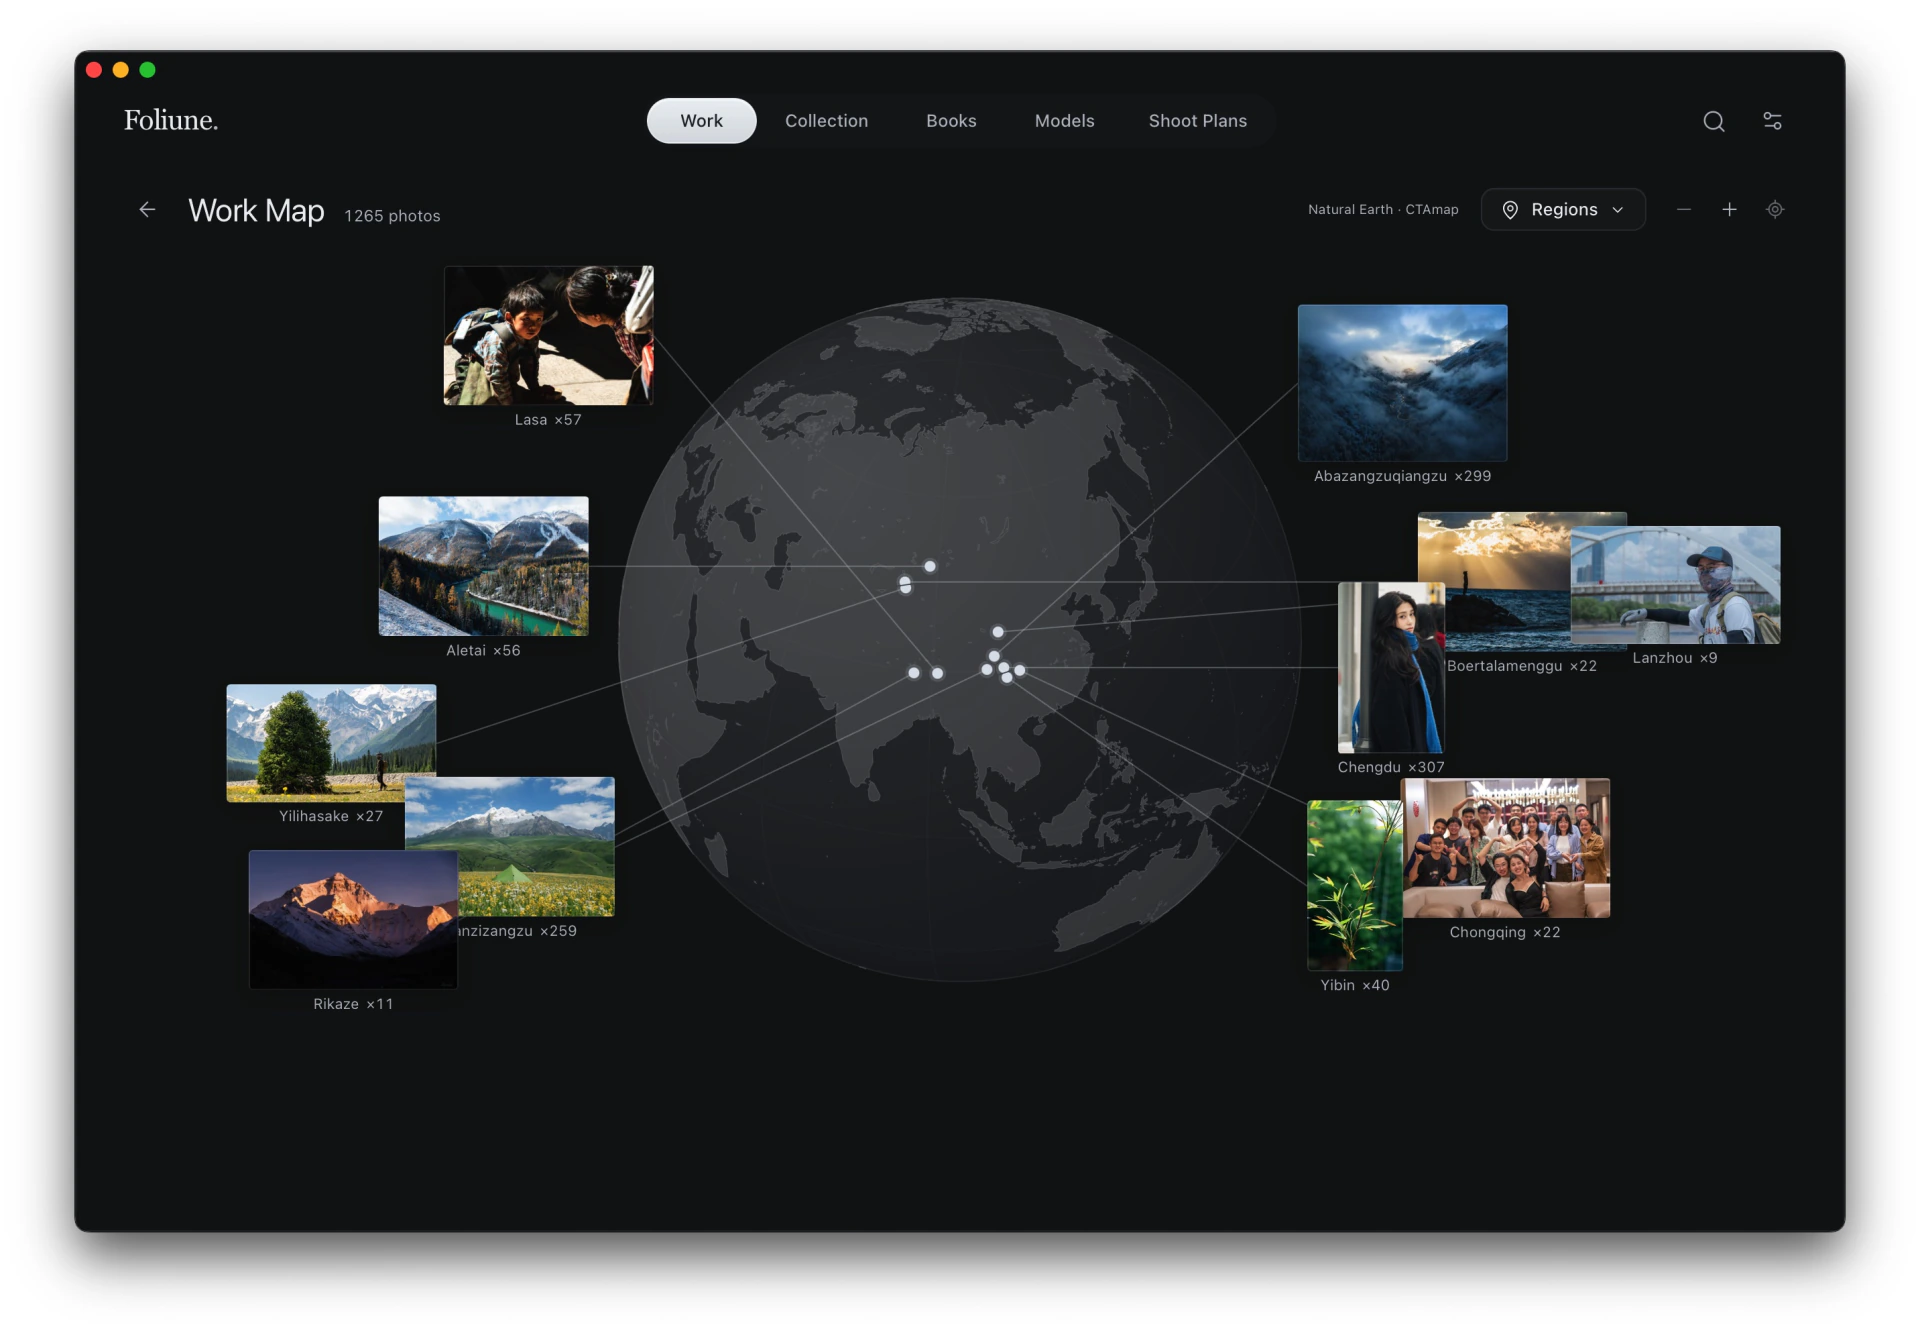
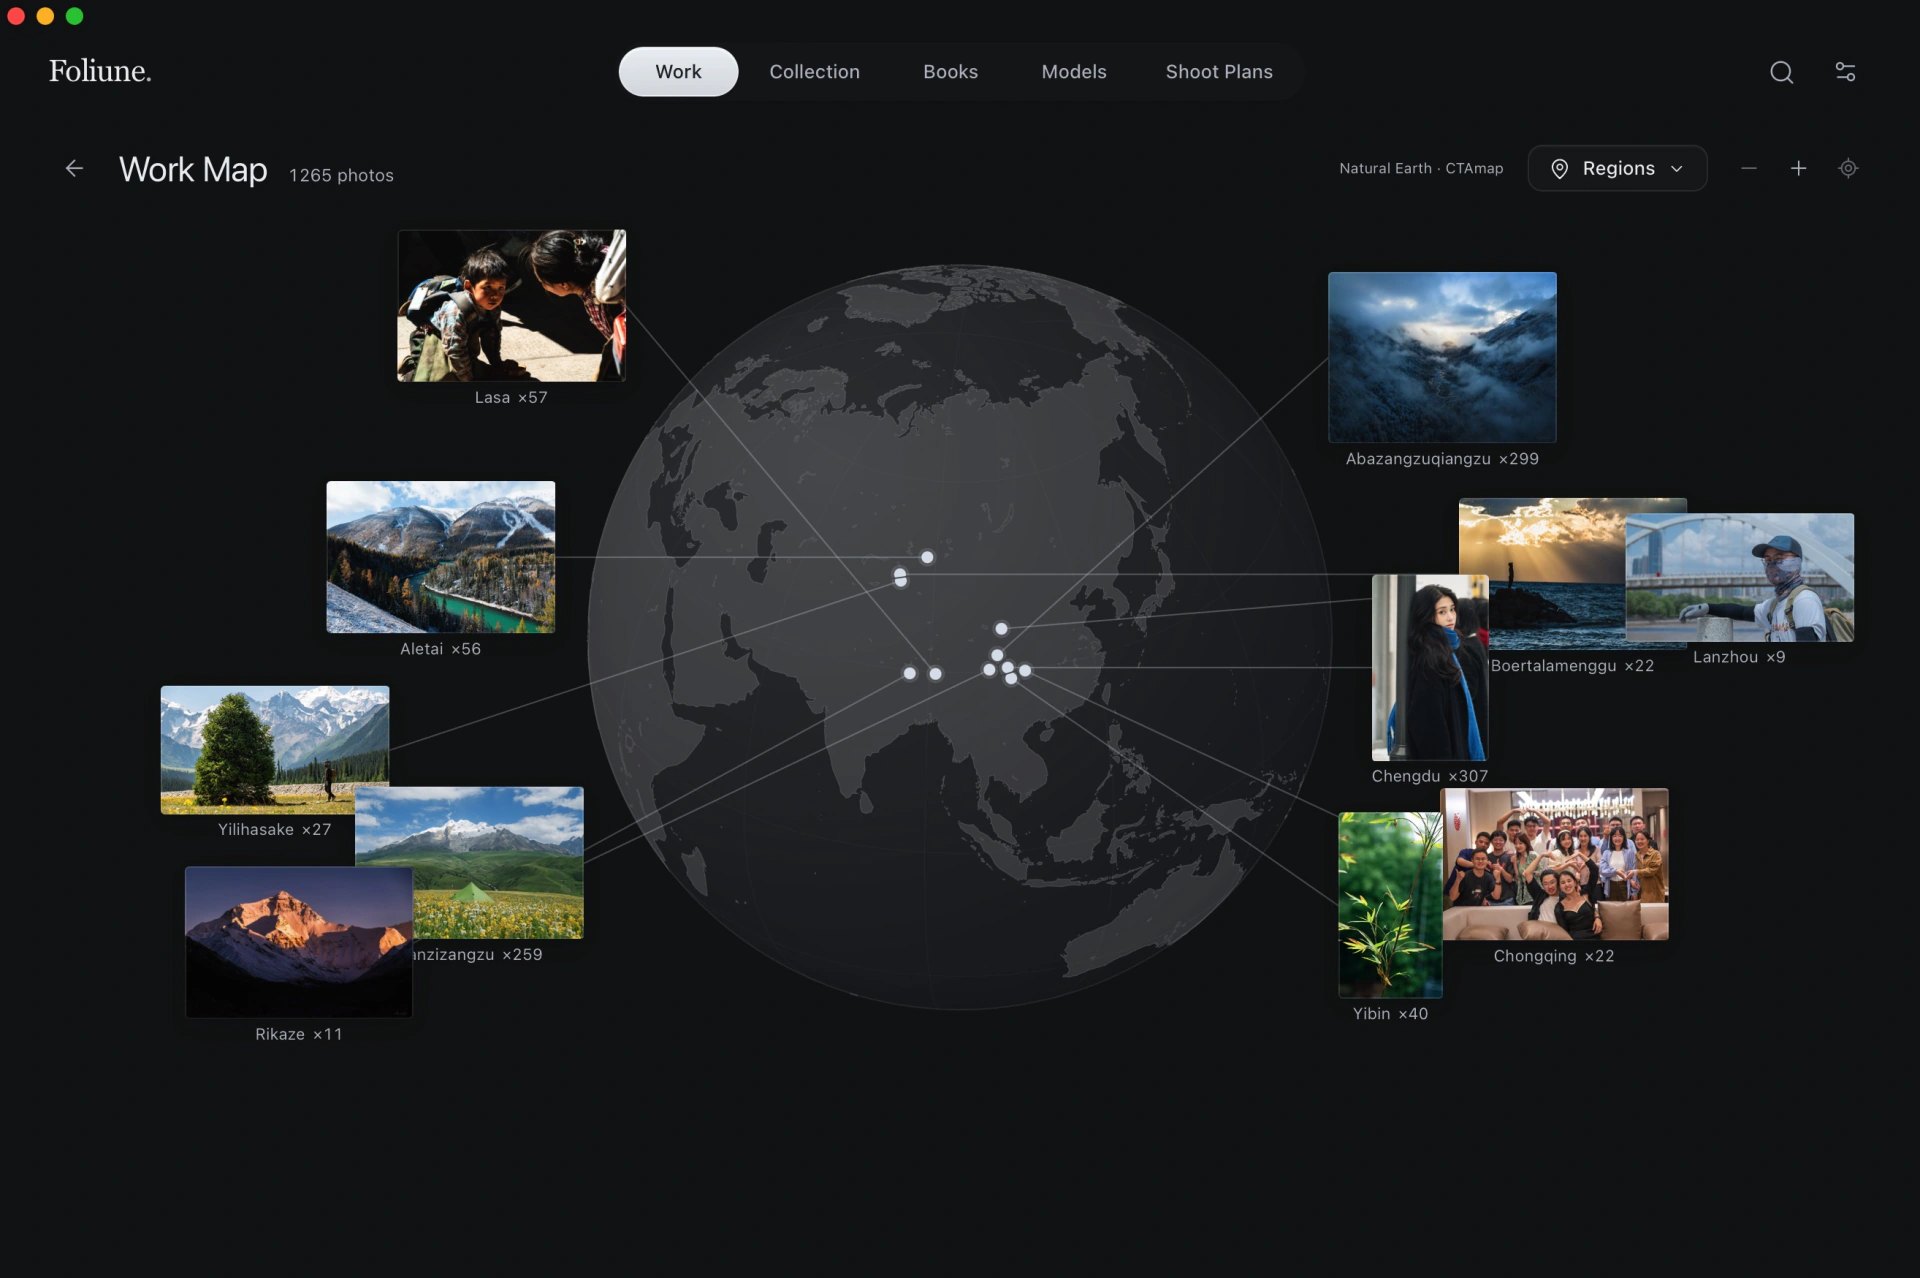
fix(website): 去掉地图截图白边并恢复窗口轮廓
中英文作品地图截图裁掉窗口外的白底和投影。官网仅给这两张截图加一圈低对比中性描边，保留圆角、原有色调和完整窗口内容。

diff --git a/site/en.html b/site/en.html
@@ -77,7 +77,7 @@
           <h2 id="work-map-title">Revisit work by location</h2>
           <p>Select a representative photograph on the offline globe to see more work from that region. You can also set a shooting region for photos without GPS data.</p>
         </div>
-        <img class="screenshot" src="assets/works-map-en.webp" alt="Foliune’s English Work Map with lines connecting representative photographs to their shooting locations on the globe." width="1920" height="1331" loading="lazy" decoding="async">
+        <img class="screenshot work-map-screenshot" src="assets/works-map-en.webp" alt="Foliune’s English Work Map with lines connecting representative photographs to their shooting locations on the globe." width="1920" height="1278" loading="lazy" decoding="async">
       </section>
 
       <section class="feature" aria-labelledby="planning-title">

diff --git a/site/index.html b/site/index.html
@@ -78,7 +78,7 @@
           <h2 id="work-map-title">按地点回看作品</h2>
           <p>在离线地球上点选代表照，回看当地拍下的作品。照片缺少 GPS 时，可手动补录拍摄地区。</p>
         </div>
-        <img class="screenshot" src="assets/works-map.webp" alt="Foliune 中文作品地图，拉萨、阿勒泰、成都等地区的代表照片通过引线连接地球上的拍摄地点。" width="1920" height="1331" loading="lazy" decoding="async">
+        <img class="screenshot work-map-screenshot" src="assets/works-map.webp" alt="Foliune 中文作品地图，拉萨、阿勒泰、成都等地区的代表照片通过引线连接地球上的拍摄地点。" width="1920" height="1278" loading="lazy" decoding="async">
       </section>
 
       <section class="feature" aria-labelledby="planning-title">

diff --git a/site/styles.css b/site/styles.css
@@ -228,6 +228,11 @@ a:focus-visible {
   border-radius: 0.625rem;
 }
 
+.work-map-screenshot {
+  outline: 1px solid var(--line);
+  outline-offset: -1px;
+}
+
 .feature-copy {
   grid-column: 2;
 }

diff --git a/docs/screenshots/README.md b/docs/screenshots/README.md
@@ -10,8 +10,8 @@ Both README editions use the screenshots below, with a localized Work Map for ea
 | `photobook-shelf.jpg` | 2026-11-04 macOS 原生画册主页验收截图 / Native macOS photobook shelf capture |
 | `shoot-planning.png` | 用户提供的拍摄策划截图 / User-supplied shoot plan |
 | `model-profiles.png` | 用户提供的模特档案截图 / User-supplied model profiles |
-| [`works-map.webp`](../../site/assets/works-map.webp) | 用户于 2026-11-19 提供的中文作品地图截图，原始文件 `Xnip2026-11-19_13-46-44.jpg`（2864 × 1984），完整等比缩小为 1920 × 1331 / User-supplied Chinese Work Map screenshot, resized proportionally in full |
-| [`works-map-en.webp`](../../site/assets/works-map-en.webp) | 用户于 2026-11-19 提供的英文作品地图截图，原始文件 `Xnip2026-11-19_13-46-32.jpg`（2864 × 1984），完整等比缩小为 1920 × 1331 / User-supplied English Work Map screenshot, resized proportionally in full |
+| [`works-map.webp`](../../site/assets/works-map.webp) | 用户于 2026-11-19 提供的中文作品地图截图，原始文件 `Xnip2026-11-19_13-46-44.jpg`（2864 × 1984），从 (118, 82) 裁取 2628 × 1748 窗口内容，去除外部白边与投影后等比缩小为 1920 × 1278 / User-supplied Chinese Work Map screenshot, cropped to the window content at (118, 82), 2628 × 1748, then resized proportionally without the outer white matte and shadow |
+| [`works-map-en.webp`](../../site/assets/works-map-en.webp) | 用户于 2026-11-19 提供的英文作品地图截图，原始文件 `Xnip2026-11-19_13-46-32.jpg`（2864 × 1984），从 (118, 82) 裁取 2628 × 1748 窗口内容，去除外部白边与投影后等比缩小为 1920 × 1278 / User-supplied English Work Map screenshot, cropped to the window content at (118, 82), 2628 × 1748, then resized proportionally without the outer white matte and shadow |
 | [`photobook-spread.webp`](../../site/assets/photobook-spread.webp) | macOS 原生画册双页阅读截图 / Native macOS photobook reader in spread view |
 
 画册主页使用独立验收实例 `app.foliune.book-review` 的 macOS release 截图，原始文件为 `.build/verification/workspace-transitions/final-books-wide.png`。截图尺寸为 2640 × 1760。验收背景见[工作区切换记录](../workspace-transitions.md)。
